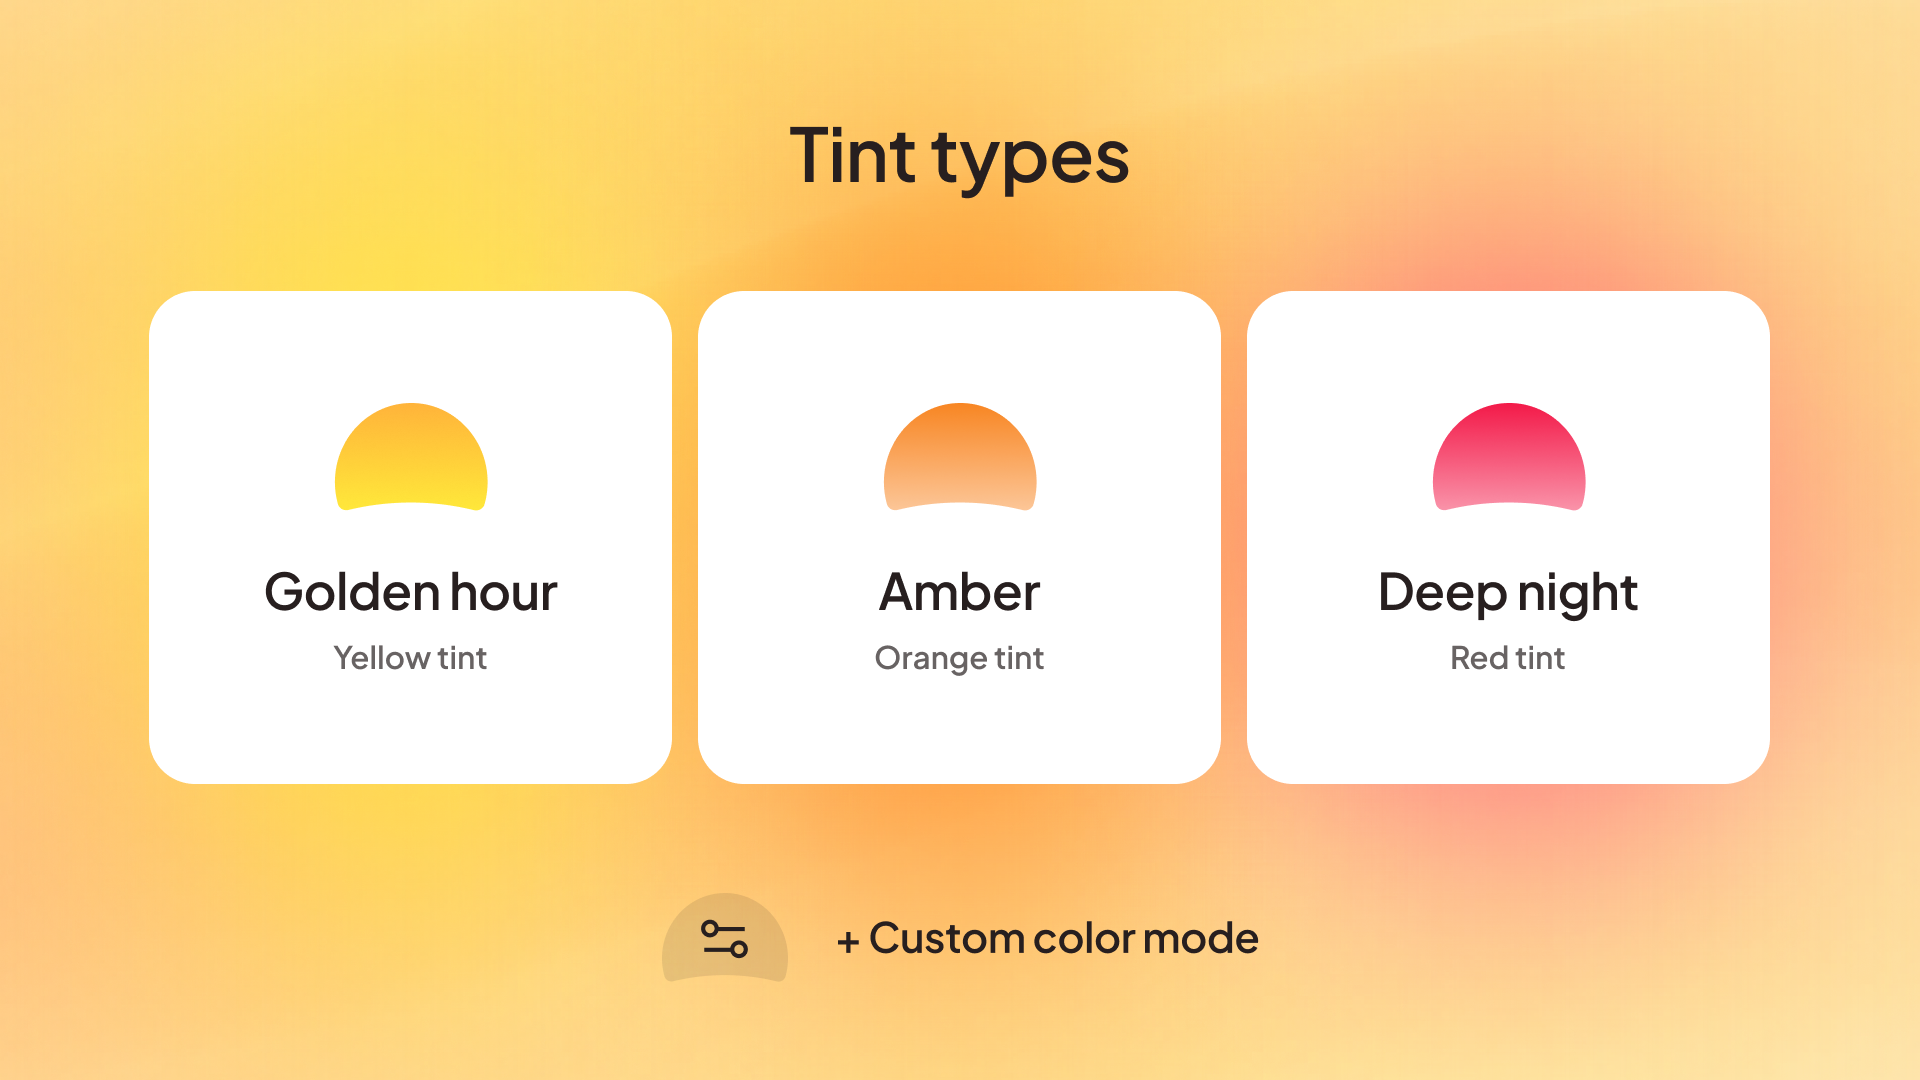
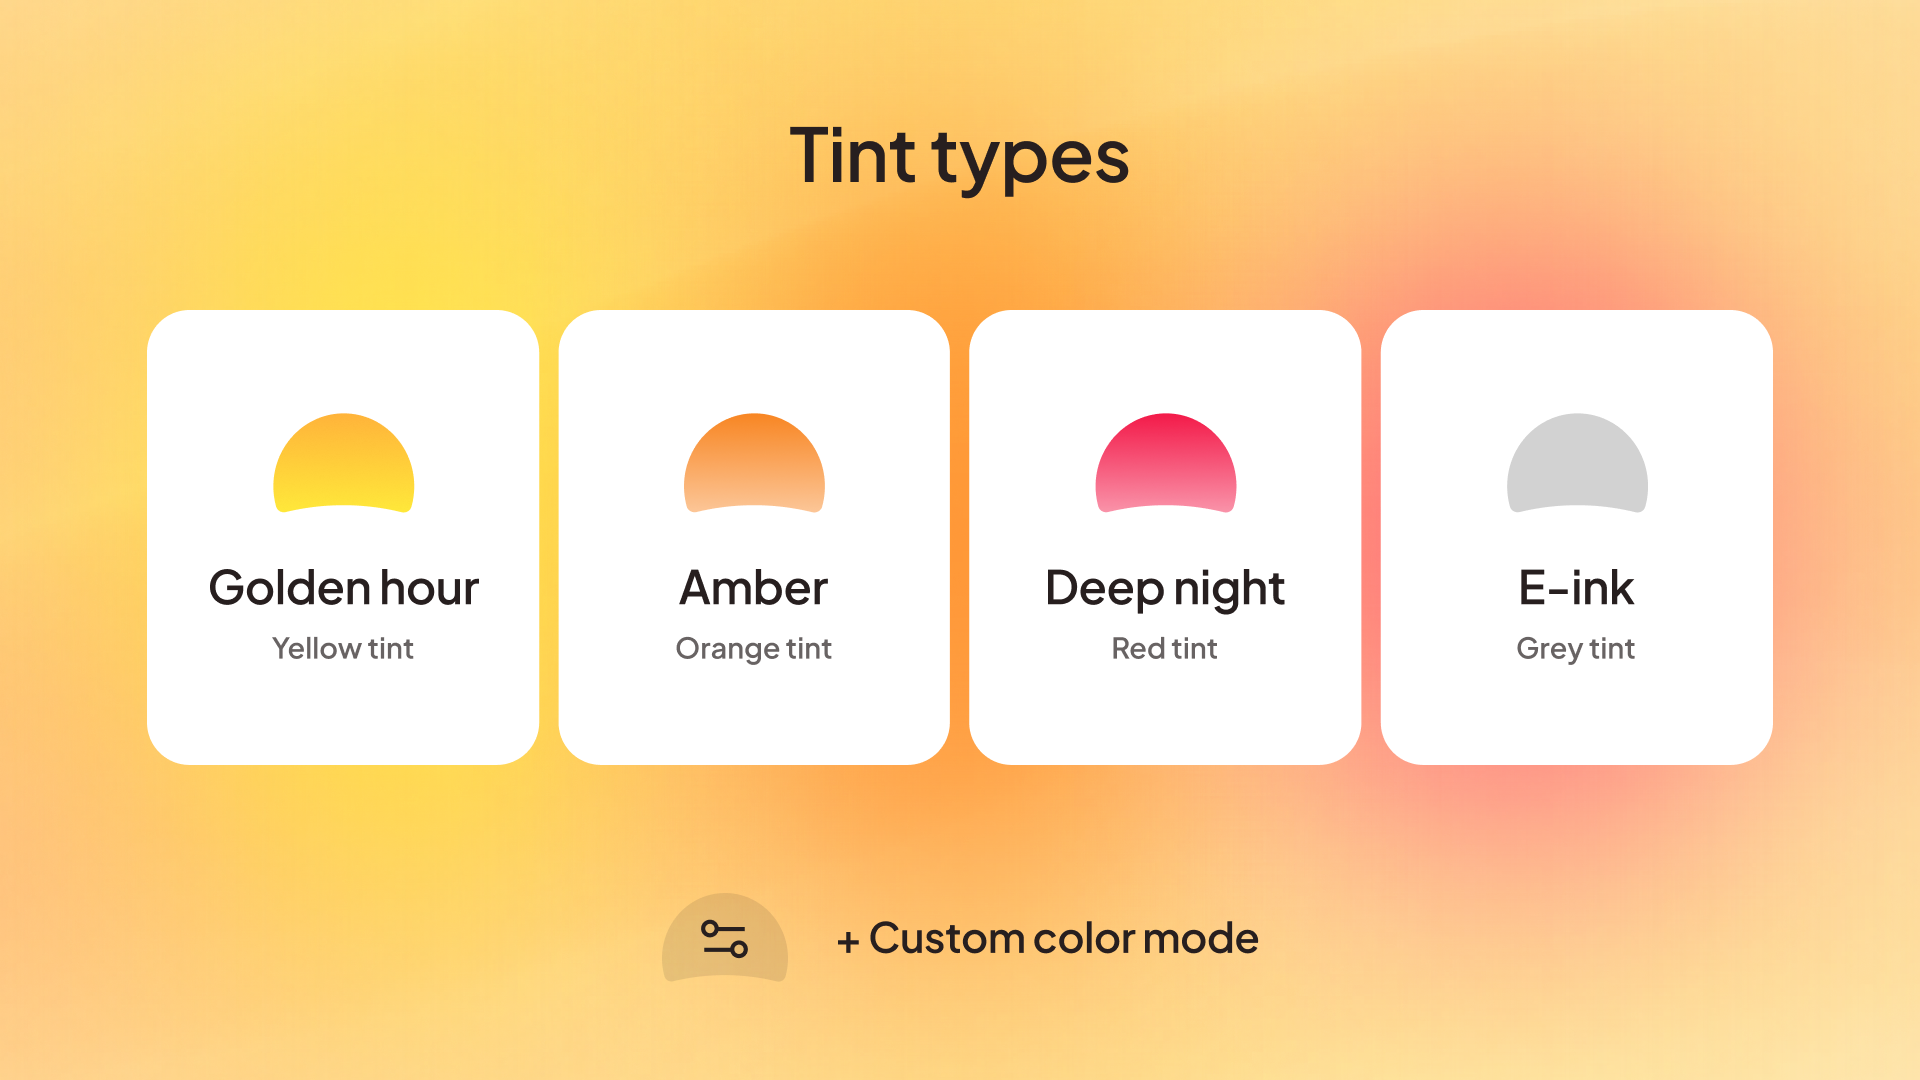
README: tint types image with E-ink

Changed region(s): [[0.0625, 0.2444, 0.9375, 0.7333]]

diff --git a/README.md b/README.md
@@ -40,7 +40,7 @@ just to make it work but to make it pleasant and easy to use.
 - **E-ink:** a grayscale screen like an e-reader, with soft blacks and paper-white whites, plus as much amber warmth as
   you like. A switch turns it into classic black & white. In Simple mode.
 
-![Tint types: Golden hour (yellow), Amber (orange), Deep night (red), plus a custom color](docs/images/tint-types.png)
+![Tint types: Golden hour (yellow), Amber (orange), Deep night (red), E-ink (gray), plus a custom color](docs/images/tint-types.png)
 
 ## Download
 
